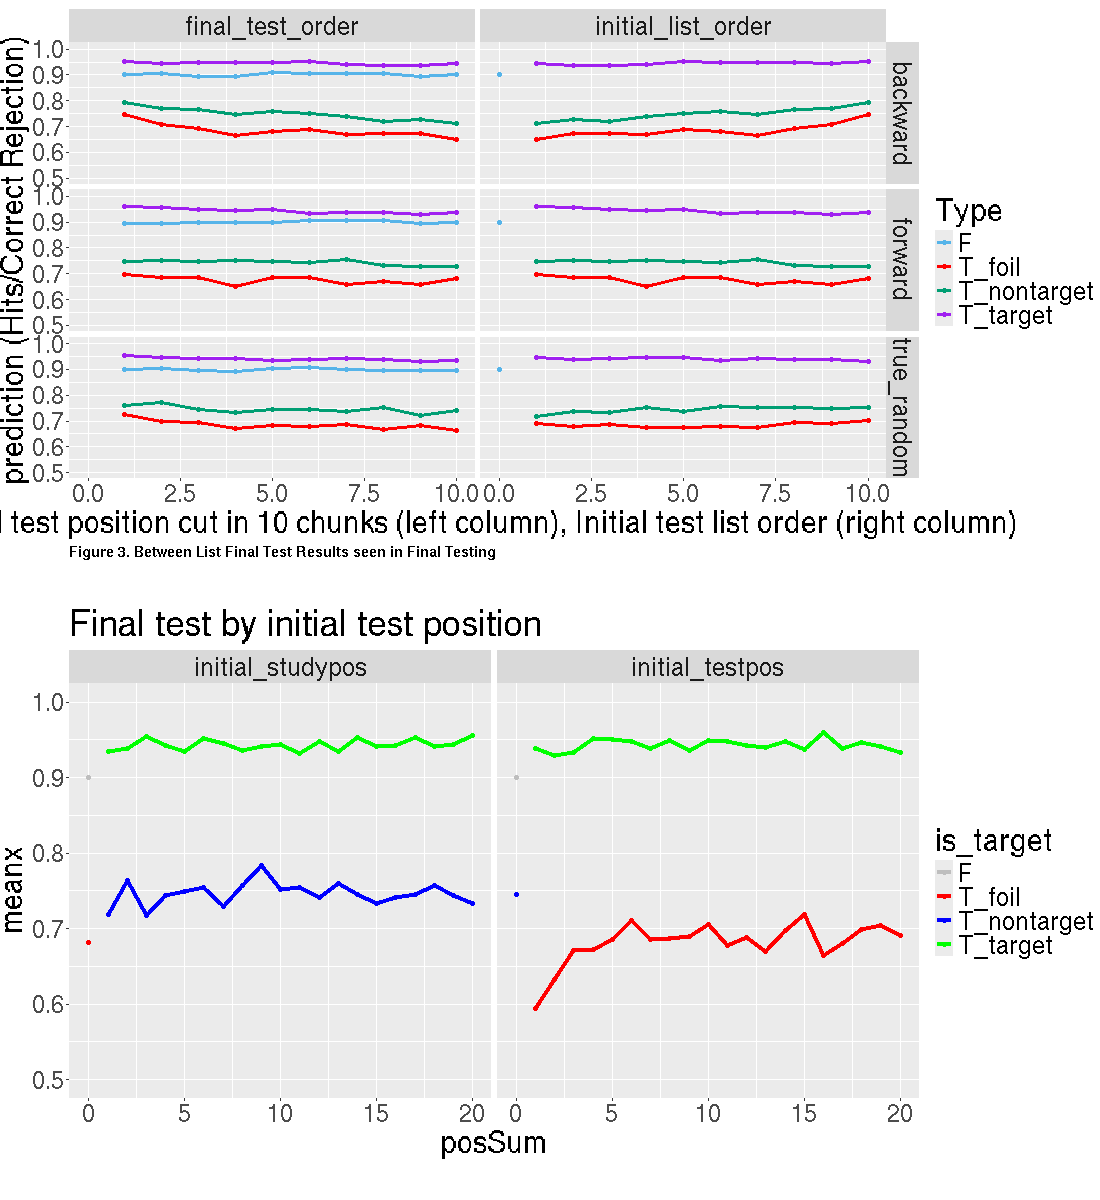
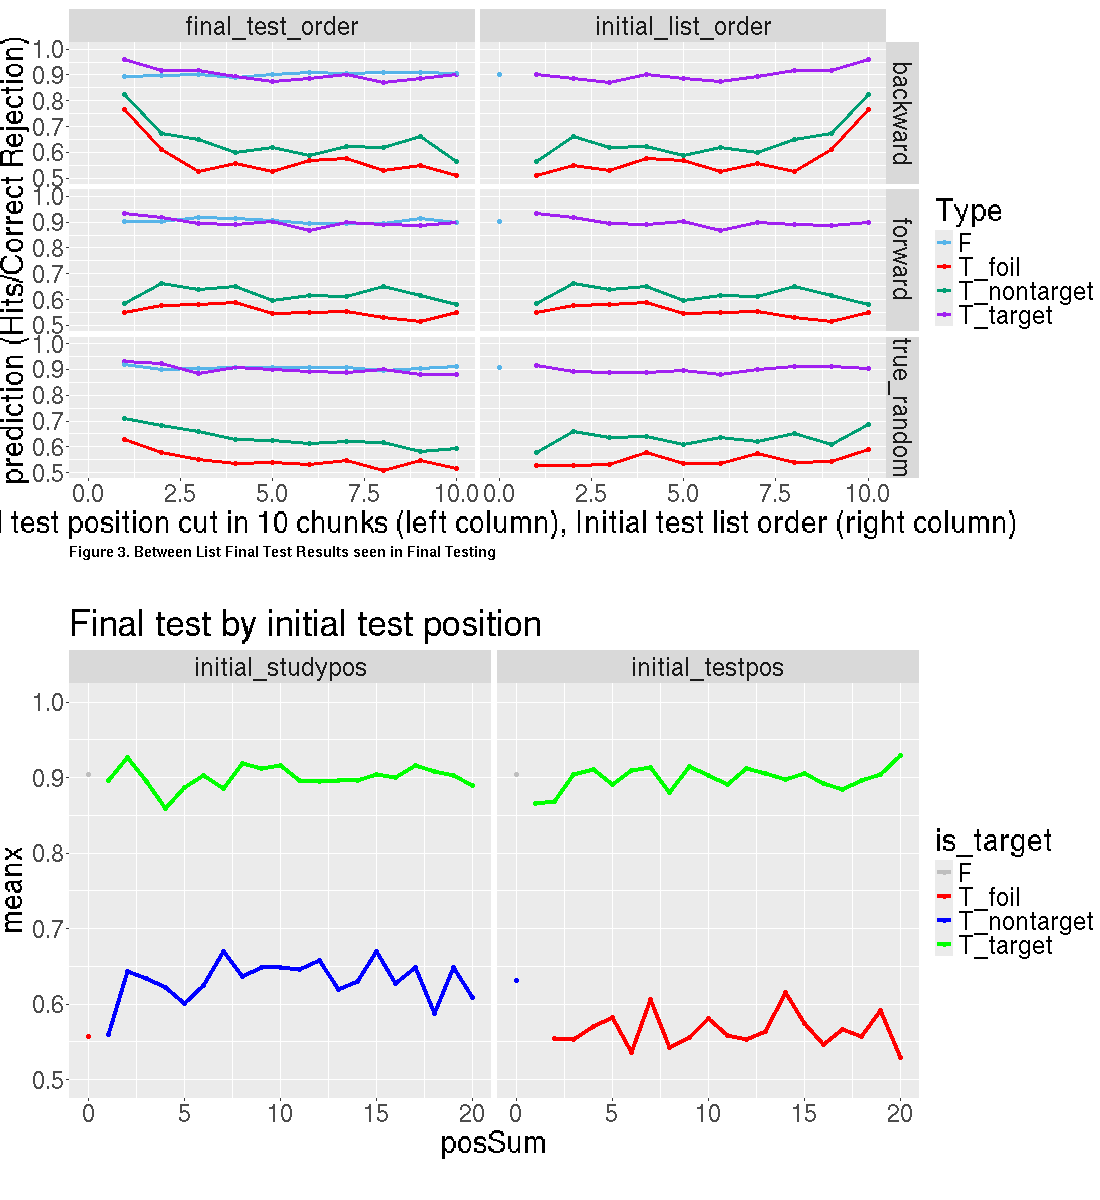
finetune(model-m1): ratio changing context adjust in final
- Raise final ratio_C_final to 30%, seem to be still working.

Refs #2

diff --git a/Docs/Meeting log.md b/Docs/Meeting log.md
@@ -1,21 +1,36 @@
  Meeting log
  ------------------------------------------------------------May 15
- 1. make just trehdhol change, see what happens,
- 2. add to E1-model with only changni+_unchanging, see what happens
- 3. just use changing context, but less use of that across lists;
- 4. The thought of second stage filter + decisoin criteron
+ - [x] Make just trehdhol change, see what happens. (in E3)
+    - Will have the trend, but not so well
+    - ![alt text](<imgMD/Meeting log/image.png>)
+  
+ - [x] add to E1-model with only changni+ unchanging, see what happens.
+     - 20% ish unchaning in inital E1 model would work; similaritly
+     - ![alt text](<imgMD/Meeting log/image-1.png>)     
+  
+ - [x] Just use changing context, but less use of that across lists.
+    - if Changing Ctx as inital probe, but with tau change
+      - ![alt text](<imgMD/Meeting log/image-2.png>)
+    - if only just changing ctx, with no tau change  
+      -  (would work?)
+   -  if only just tau change; ?
+      -  Yes; will actually work; 
+      - ![alt text](<imgMD/Meeting log/image-4.png>)
+    - If only high between-list drift + Lots UC ctx? ; will list-length effect apply and T drop?
+      - no;gives a flatty result; 
+      - 
+ - [ ] The thought of second stage filter + decision criterion:
    
-   Probably much more w_context (100), but much higher first stage filter 
+   - [ ] Probably much more w_context (100), but much higher first stage filter.
+   - [ ] What if most features are unchanging? Don't want to use mostly changing.
+   - [ ] Maybe change tau between lists, with many unchanging, will it work?
 
-   - what if most feature are Unchanging..? Don't want to use mostly changing
-   - Maybe change tau between list, with many unchanging, will it work
+ - [ ] Keep exactly the same criterion for E1 & E3; can adjust things as lists continue, but not add more mechanisms.
 
-Keep exactly same criterion for E1 & E3; can adjust things are list continue, but not more mechanims..?
+   - [ ] First stage to be special: E1 modeled by special assumption, E3 by...?
 
-- first stage to be special: E1 modeled by special assumption, E3 by ..??
+   - [ ] Bigger portion of unchanging; and different tau for each list in E1; will it do?
 
-- Bigger portion of unchanging; and different tau each list in E1; will it do???
+ - [ ] E2: How we change context as lists go on evidence.
 
-E2: how we change context as lists go on evidence
-
-Sampling: samplling memory traces to govern decision
+ - [ ] Sampling: Sampling memory traces to govern decision.
